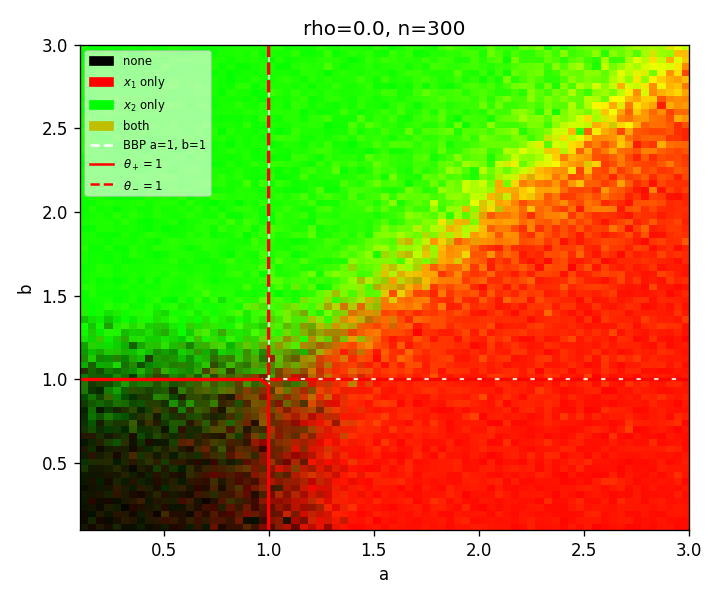
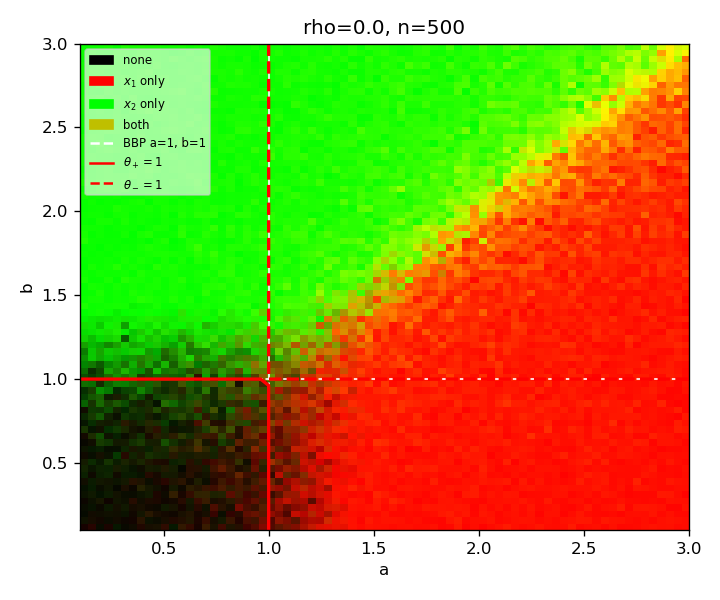
des plots et du code

diff --git a/Theory/check_bulk.py b/Theory/check_bulk.py
@@ -1,4 +1,4 @@
-"""Same checks as check_theory.py but WITH the noise bulk: Y = P + W, W Wigner.
+"""WITH the noise bulk: Y = P + W, W Wigner.
 
 Theory (report, eq. bbp): outliers of Y sit at theta + 1/theta when theta > 1 (else at the
 bulk edge 2); the top eigenvector x_hat of Y overlaps the eigenvector v_+ of P with
@@ -92,7 +92,7 @@ def fig_eig(n=500, sims=30):
     fig.tight_layout(); fig.savefig("eigenvalues_Y.png", dpi=120)
 
 
-def fig_lambda(n=1000, rho=0.3, sims=30):
+def fig_lambda(n=2000, rho=0.3, sims=30):
     """BBP eigenvector check vs lambda (lambda1 = lambda2 = lambda, so a = b = lambda/sqrt2
     and theta_pm = a(1 +- rho)).
 
@@ -105,7 +105,7 @@ def fig_lambda(n=1000, rho=0.3, sims=30):
 
     Dots/error bars: mean +- std over `sims` simulations. Dashed: theory.
     """
-    lams = np.linspace(0.1, 5, 50)
+    lams = np.linspace(0.1, 5, 100)
     mean, std, th = [], [], []
     for lam in lams:
         a = b = ALPHA * lam
@@ -159,7 +159,7 @@ def fig_heat():
     heat("a", np.linspace(0.1, 3, 25), 0.7, "heat_a_rho.png")
 
 
-def fig_phase(rhos=(0.0, 0.1, 0.2, 0.3, 0.5, 1.0), n=300, reps=3, omax=0.7):
+def fig_phase(rhos=(0.0, 0.1, 0.2, 0.3, 0.5, 1.0), n=500, reps=3, omax=0.7):
     grid = np.linspace(0.1, 3, 75)
     A, B = np.meshgrid(grid, grid)                      # A[j, i] = grid[i] (x), B[j, i] = grid[j] (y)
     for rho in rhos:
